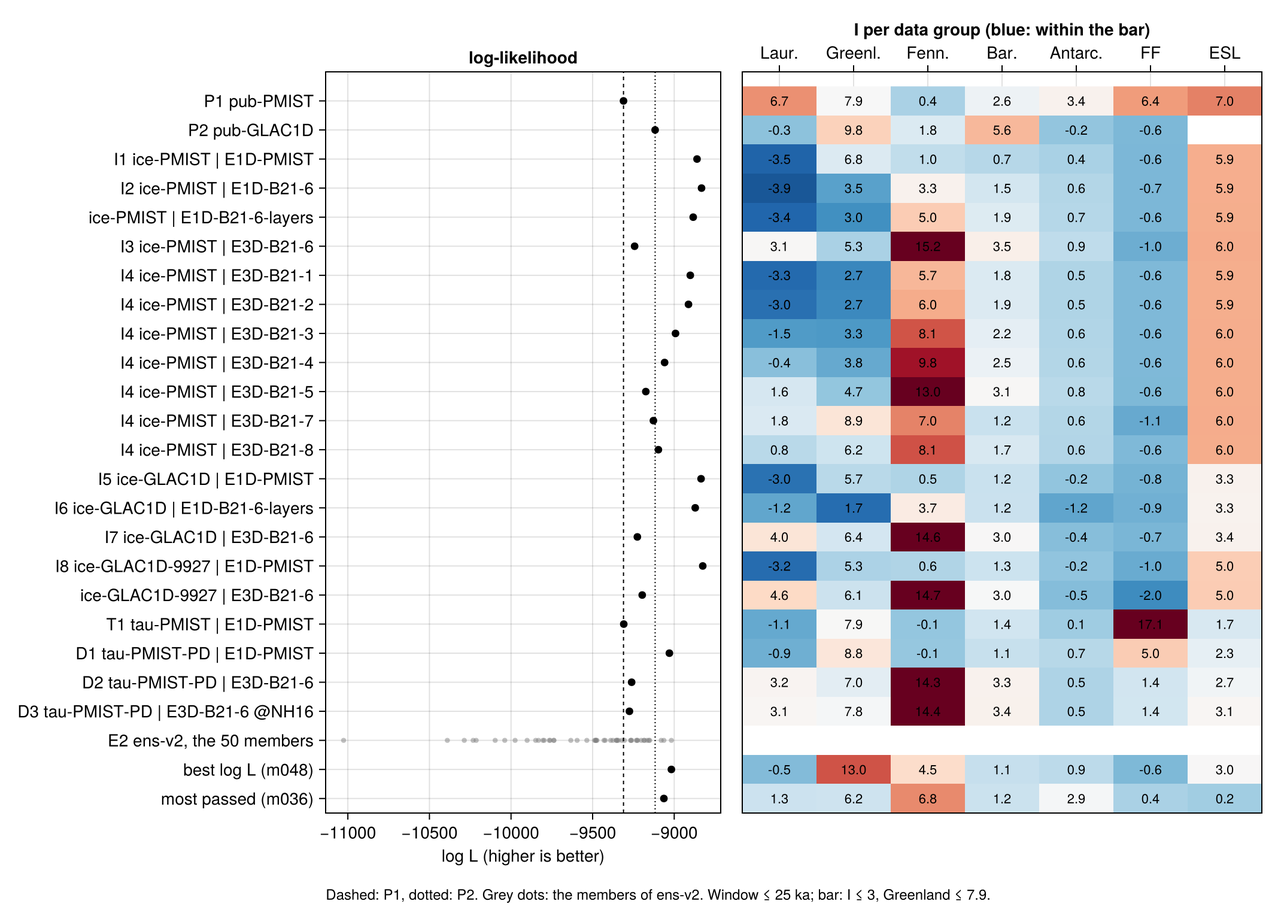
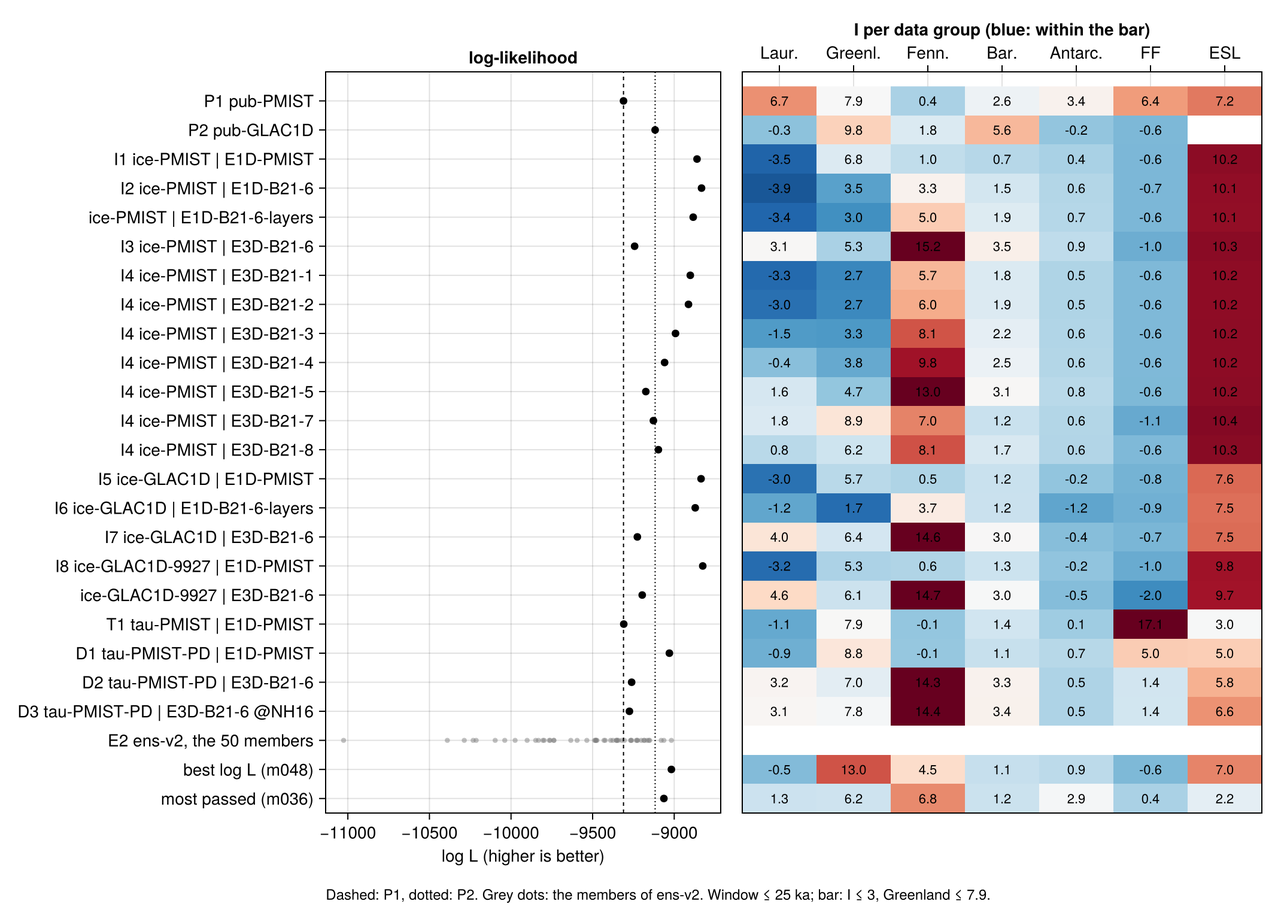
docs: ESL rescored (bsl, linear in time) in results.md, earth-search.md; data-scores.md describes the ESL comparison and the open bar under imposed ice

Changed region(s): [[0.9252, 0.1558, 0.9869, 0.9039]]

diff --git a/docs/science/results.md b/docs/science/results.md
@@ -5,13 +5,14 @@ page-layout: full
 ---
 
 Every scored simulation, on one scale: what each changes against its parent ([Methods](methods.md#the-ladder)) and how
-well it fits ([Data and scores](data-scores.md)). Status 2026-11-17.
+well it fits ([Data and scores](data-scores.md)). Status 2026-11-18 (ESL rescored: the barystatic sea level, linear in time;
+[Data and scores](data-scores.md#esl)).
 
 **Columns.** **log L**, the log-likelihood over the six RSL groups, higher is better (differences of a few tens are
 large); **passed**, the groups within the bar, of 7 (RSL and ESL) or of 9 with the GNSS rates; **RMSE** over all RSL
 points [m]; **RMS z** of the normalized residuals; **I** per group, ≤ 3 passes (Greenland ≤ 7.9; ESL ≤ 3 for our ice,
-≤ 7.04 in the Earth search): **Laur.** Laurentide, **Greenl.** Greenland, **Fenn.** Fennoscandia, **Bar.** Barents,
-**Antarc.** Antarctica, **FF** far field, **ESL** the eustatic sea level.
+≤ 7.22, PaleoMIST's own score, in the Earth search and the Coulomb tables): **Laur.** Laurentide, **Greenl.** Greenland, **Fenn.** Fennoscandia, **Bar.** Barents,
+**Antarc.** Antarctica, **FF** far field, **ESL** the barystatic sea level against the Spratt and Lisiecki (2016) stack.
 
 ![Every reference simulation of the ladder: log L (left) and I per data group against the bar (right; blue within it,
 red beyond it, the colour the distance from the cut).](figures/simulations/ladder.png)
@@ -23,7 +24,7 @@ published topography has no ice volume).
 
 | id | simulation | changes against | status | log L | passed | RMSE [m] | RMS z | I Laur. | I Greenl. | I Fenn. | I Bar. | I Antarc. | I FF | I ESL |
 |---|---|---|---|---|---|---|---|---|---|---|---|---|---|---|
-| **P1** | `pub-PMIST` | published | done | −9311 | 3/7 | 20.0 | 30.1 | 6.7 | 7.9 | 0.4 | 2.6 | 3.4 | 6.4 | 7.0 |
+| **P1** | `pub-PMIST` | published | done | −9311 | 3/7 | 20.0 | 30.1 | 6.7 | 7.9 | 0.4 | 2.6 | 3.4 | 6.4 | 7.2 |
 | **P2** | `pub-GLAC1D` | published | done | −9117 | 4/6 | 19.0 | 18.6 | −0.3 | 9.8 | 1.8 | 5.6 | −0.2 | −0.6 | – |
 
 ## Imposed ice on our solver
@@ -34,22 +35,22 @@ radial mean, then his lateral structure, then the strength of that structure.
 
 | id | simulation | changes against | status | log L | passed | RMSE [m] | RMS z | I Laur. | I Greenl. | I Fenn. | I Bar. | I Antarc. | I FF | I ESL |
 |---|---|---|---|---|---|---|---|---|---|---|---|---|---|---|
-| I1 | `ice-PMIST \| E1D-PMIST` | P1: the solver (SELEN → VILMA2, 931 → 910 kg m⁻³, 2.5 kyr steps → linear, r) | done | −8860 | 6/7 | 16.2 | 28.5 | −3.5 | 6.8 | 1.0 | 0.7 | 0.4 | −0.6 | 5.9 |
-| I2 | `ice-PMIST \| E1D-B21-6` | I1: the radial profile (PaleoMIST's → Bagge's mean) | done | −8833 | 5/7 | **14.5** | 21.2 | −3.9 | 3.5 | 3.3 | 1.5 | 0.6 | −0.7 | 5.9 |
-| | `ice-PMIST \| E1D-B21-6-layers` | the same radial mean as plain 1-D layer means | done | −8884 | 5/7 | **14.5** | 21.2 | −3.4 | 3.0 | 5.0 | 1.9 | 0.7 | −0.6 | 5.9 |
-| I3 | `ice-PMIST \| E3D-B21-6` | I2: the lateral structure | done | −9243 | 3/7 | 19.6 | 35.3 | 3.1 | 5.3 | 15.2 | 3.5 | 0.9 | −1.0 | 6.0 |
-| I4 | `ice-PMIST \| E3D-B21-1` | I3: Bagge's structure 1 (weakest lateral contrast) | done | −8902 | 5/7 | 15.0 | 20.1 | −3.3 | 2.7 | 5.7 | 1.8 | 0.5 | −0.6 | 5.9 |
-| | `ice-PMIST \| E3D-B21-2` | structure 2 | done | −8913 | 5/7 | 15.1 | 20.1 | −3.0 | 2.7 | 6.0 | 1.9 | 0.5 | −0.6 | 5.9 |
-| | `ice-PMIST \| E3D-B21-3` | structure 3, Bagge's reference | done | −8992 | 5/7 | 16.1 | 21.1 | −1.5 | 3.3 | 8.1 | 2.2 | 0.6 | −0.6 | 6.0 |
-| | `ice-PMIST \| E3D-B21-4` | structure 4 | done | −9059 | 5/7 | 17.0 | 22.6 | −0.4 | 3.8 | 9.8 | 2.5 | 0.6 | −0.6 | 6.0 |
-| | `ice-PMIST \| E3D-B21-5` | structure 5 | done | −9174 | 4/7 | 18.5 | 29.0 | 1.6 | 4.7 | 13.0 | 3.1 | 0.8 | −0.6 | 6.0 |
-| | `ice-PMIST \| E3D-B21-7` | structure 7 (sc06 profile) | done | −9128 | 4/7 | 18.9 | 33.5 | 1.8 | 8.9 | 7.0 | 1.2 | 0.6 | −1.1 | 6.0 |
-| | `ice-PMIST \| E3D-B21-8` | structure 8 (sc06b profile) | done | −9097 | 5/7 | 17.8 | 26.5 | 0.8 | 6.2 | 8.1 | 1.7 | 0.6 | −0.6 | 6.0 |
-| I5 | `ice-GLAC1D \| E1D-PMIST` | I1: the ice (PaleoMIST → GLAC-1D) | done | −8835 | 6/7 | 17.8 | 28.2 | −3.0 | 5.7 | 0.5 | 1.2 | −0.2 | −0.8 | 3.3 |
-| I6 | `ice-GLAC1D \| E1D-B21-6-layers` | I5: the radial profile (Bagge's mean as layers) | done | −8871 | 5/7 | 15.4 | **18.8** | −1.2 | 1.7 | 3.7 | 1.2 | −1.2 | −0.9 | 3.3 |
-| I7 | `ice-GLAC1D \| E3D-B21-6` | I6: the lateral structure | done | −9226 | 3/7 | 20.4 | 26.1 | 4.0 | 6.4 | 14.6 | 3.0 | −0.4 | −0.7 | 3.4 |
-| I8 | `ice-GLAC1D-9927 \| E1D-PMIST` | I5: North America nn9927 | done | **−8825** | 6/7 | 17.9 | 26.3 | −3.2 | 5.3 | 0.6 | 1.3 | −0.2 | −1.0 | 5.0 |
-| | `ice-GLAC1D-9927 \| E3D-B21-6` | I7: North America nn9927 | done | −9196 | 4/7 | 20.5 | 27.1 | 4.6 | 6.1 | 14.7 | 3.0 | −0.5 | −2.0 | 5.0 |
+| I1 | `ice-PMIST \| E1D-PMIST` | P1: the solver (SELEN → VILMA2, 931 → 910 kg m⁻³, 2.5 kyr steps → linear, r) | done | −8860 | 6/7 | 16.2 | 28.5 | −3.5 | 6.8 | 1.0 | 0.7 | 0.4 | −0.6 | 10.2 |
+| I2 | `ice-PMIST \| E1D-B21-6` | I1: the radial profile (PaleoMIST's → Bagge's mean) | done | −8833 | 5/7 | **14.5** | 21.2 | −3.9 | 3.5 | 3.3 | 1.5 | 0.6 | −0.7 | 10.1 |
+| | `ice-PMIST \| E1D-B21-6-layers` | the same radial mean as plain 1-D layer means | done | −8884 | 5/7 | **14.5** | 21.2 | −3.4 | 3.0 | 5.0 | 1.9 | 0.7 | −0.6 | 10.1 |
+| I3 | `ice-PMIST \| E3D-B21-6` | I2: the lateral structure | done | −9243 | 3/7 | 19.6 | 35.3 | 3.1 | 5.3 | 15.2 | 3.5 | 0.9 | −1.0 | 10.3 |
+| I4 | `ice-PMIST \| E3D-B21-1` | I3: Bagge's structure 1 (weakest lateral contrast) | done | −8902 | 5/7 | 15.0 | 20.1 | −3.3 | 2.7 | 5.7 | 1.8 | 0.5 | −0.6 | 10.2 |
+| | `ice-PMIST \| E3D-B21-2` | structure 2 | done | −8913 | 5/7 | 15.1 | 20.1 | −3.0 | 2.7 | 6.0 | 1.9 | 0.5 | −0.6 | 10.2 |
+| | `ice-PMIST \| E3D-B21-3` | structure 3, Bagge's reference | done | −8992 | 5/7 | 16.1 | 21.1 | −1.5 | 3.3 | 8.1 | 2.2 | 0.6 | −0.6 | 10.2 |
+| | `ice-PMIST \| E3D-B21-4` | structure 4 | done | −9059 | 5/7 | 17.0 | 22.6 | −0.4 | 3.8 | 9.8 | 2.5 | 0.6 | −0.6 | 10.2 |
+| | `ice-PMIST \| E3D-B21-5` | structure 5 | done | −9174 | 4/7 | 18.5 | 29.0 | 1.6 | 4.7 | 13.0 | 3.1 | 0.8 | −0.6 | 10.2 |
+| | `ice-PMIST \| E3D-B21-7` | structure 7 (sc06 profile) | done | −9128 | 4/7 | 18.9 | 33.5 | 1.8 | 8.9 | 7.0 | 1.2 | 0.6 | −1.1 | 10.4 |
+| | `ice-PMIST \| E3D-B21-8` | structure 8 (sc06b profile) | done | −9097 | 5/7 | 17.8 | 26.5 | 0.8 | 6.2 | 8.1 | 1.7 | 0.6 | −0.6 | 10.3 |
+| I5 | `ice-GLAC1D \| E1D-PMIST` | I1: the ice (PaleoMIST → GLAC-1D) | done | −8835 | 6/7 | 17.8 | 28.2 | −3.0 | 5.7 | 0.5 | 1.2 | −0.2 | −0.8 | 7.6 |
+| I6 | `ice-GLAC1D \| E1D-B21-6-layers` | I5: the radial profile (Bagge's mean as layers) | done | −8871 | 5/7 | 15.4 | **18.8** | −1.2 | 1.7 | 3.7 | 1.2 | −1.2 | −0.9 | 7.5 |
+| I7 | `ice-GLAC1D \| E3D-B21-6` | I6: the lateral structure | done | −9226 | 3/7 | 20.4 | 26.1 | 4.0 | 6.4 | 14.6 | 3.0 | −0.4 | −0.7 | 7.5 |
+| I8 | `ice-GLAC1D-9927 \| E1D-PMIST` | I5: North America nn9927 | done | **−8825** | 6/7 | 17.9 | 26.3 | −3.2 | 5.3 | 0.6 | 1.3 | −0.2 | −1.0 | 9.8 |
+| | `ice-GLAC1D-9927 \| E3D-B21-6` | I7: North America nn9927 | done | −9196 | 4/7 | 20.5 | 27.1 | 4.6 | 6.1 | 14.7 | 3.0 | −0.5 | −2.0 | 9.7 |
 | | `ice-PMIST \| E3D-PCA-E001` ... `E030` | I3: 30 Earths sampled from the expert basis | run, not scored | | | | | | | | | | | |
 
 ![PaleoMIST's ice on Bagge's structures 1-6, ordered by their lateral factor, and on the radial mean of structure 6 as a
@@ -57,8 +58,8 @@ radial mean, then his lateral structure, then the strength of that structure.
 
 - **Our solver beats both publications with their own ice:** I1 −8860 against P1 −9311, I5 −8835 against P2 −9117,
   both passing every RSL group. GLAC-1D's ice with nn9927 (I8) is the best of the ladder.
-- **ESL separates the ice histories.** PaleoMIST's ice fails ESL on every Earth (I 5.9-6.0, about 7 m short at 20 ka);
-  GLAC-1D's ice is close (3.3), nn9927 further off (5.0).
+- **Both ice histories fail ESL.** PaleoMIST's ice on every Earth (I 10.1-10.4, about 16 m short at 20 ka: 110 against
+  126 m), GLAC-1D's ice less (7.4-7.6), nn9927 further off (9.7-9.8).
 - **Bagge's radial profile is as good as Gowan's, his lateral structure is not.** The radial mean of structure 6 (I2)
   gives the lowest RMSE. With lateral structure Fennoscandia fails, the more the larger the lateral contrast (structure
   1: 5.7, structure 6: 15.2), under either ice (I3, I7). Laurentide and Greenland degrade the same way, more slowly.
@@ -70,10 +71,10 @@ computed every step on the deforming bed. D adds the present-day factors.
 
 | id | simulation | changes against | status | log L | passed | RMSE [m] | RMS z | I Laur. | I Greenl. | I Fenn. | I Bar. | I Antarc. | I FF | I ESL |
 |---|---|---|---|---|---|---|---|---|---|---|---|---|---|---|
-| T1 | `tau-PMIST \| E1D-PMIST` | I1: the ice model (ICESHEET 5 km offline → PlasticIceSheet 32 km online) | done | −9309 | 5/7 | 17.9 | 26.9 | −1.1 | 7.9 | −0.1 | 1.4 | 0.1 | 17.1 | 1.7 |
-| D1 | `tau-PMIST-PD \| E1D-PMIST` | T1: the present-day factors | done | −9030 | 5/7 | 17.8 | 27.7 | −0.9 | 8.8 | −0.1 | 1.1 | 0.7 | 5.0 | 2.3 |
-| D2 | `tau-PMIST-PD \| E3D-B21-6` | D1: the 3-D Earth (m000 of ens-v2) | done | −9261 | 4/7 | 20.3 | 34.7 | 3.2 | 7.0 | 14.3 | 3.3 | 0.5 | 1.4 | 2.7 |
-| D3 | `tau-PMIST-PD \| E3D-B21-6 @NH16` | D2: Northern Hemisphere 32 → 16 km | done | −9275 | 3/7 | 20.6 | 35.4 | 3.1 | 7.8 | 14.4 | 3.4 | 0.5 | 1.4 | 3.1 |
+| T1 | `tau-PMIST \| E1D-PMIST` | I1: the ice model (ICESHEET 5 km offline → PlasticIceSheet 32 km online) | done | −9309 | 5/7 | 17.9 | 26.9 | −1.1 | 7.9 | −0.1 | 1.4 | 0.1 | 17.1 | 3.0 |
+| D1 | `tau-PMIST-PD \| E1D-PMIST` | T1: the present-day factors | done | −9030 | 4/7 | 17.8 | 27.7 | −0.9 | 8.8 | −0.1 | 1.1 | 0.7 | 5.0 | 5.0 |
+| D2 | `tau-PMIST-PD \| E3D-B21-6` | D1: the 3-D Earth (m000 of ens-v2) | done | −9261 | 3/7 | 20.3 | 34.7 | 3.2 | 7.0 | 14.3 | 3.3 | 0.5 | 1.4 | 5.9 |
+| D3 | `tau-PMIST-PD \| E3D-B21-6 @NH16` | D2: Northern Hemisphere 32 → 16 km | done | −9275 | 3/7 | 20.6 | 35.4 | 3.1 | 7.8 | 14.4 | 3.4 | 0.5 | 1.4 | 6.6 |
 
 The present-day factors remove most of the far-field misfit (T1 17.1 → D1 5.0). On structure 6 (D2) Fennoscandia
 fails as it does under imposed ice (I3). 16 km in the north (D3) changes the scores little and costs 2 m of ESL; 32 km
@@ -85,32 +86,32 @@ PlasticIceSheet online on VILMA2 with the Coulomb yield law instead of PaleoMIST
 the relaxed bed, one c_f per ice sheet): four (H_N, λ_min) of the band that meets the 20 ka targets (H_N 30, 100, 300,
 1000 m with λ_min 0.2, 0.3, 0.5, 0.75; c_f of the calibration, Patagonia Eurasia's), each on Gowan's Earth and on the
 Earth search's E117, with the r of PaleoMIST's ice on that Earth. Scored on the Earth search's scale (9 groups; the bars
-Greenland 7.9, ESL 7.04; under the bar of our ice, ESL ≤ 3, every Coulomb run fails ESL).
+Greenland 7.9, ESL 7.22; under the bar of our ice, ESL ≤ 3, every Coulomb run but C5 at H_N 1000 fails ESL).
 
 | id | simulation | changes against | status | log L | passed | RMSE [m] | I L / G / F / B / A / FF | I GNSS F / HB | I ESL |
 |---|---|---|---|---|---|---|---|---|---|
-| C1 | `tau-CB-H030 \| E1D-PMIST` | D1: the Coulomb law, H_N 30 m | done | −9016 | 6/9 | 22.3 | −2.3 / 4.9 / 2.4 / 6.8 / 2.8 / −0.9 | 7.4 / 11.1 | 5.7 |
-| | `tau-CB-H100 \| E1D-PMIST` | H_N 100 m | done | −8977 | 6/9 | 21.5 | −2.5 / 4.5 / 1.8 / 6.0 / 2.8 / −1.4 | 7.0 / 10.9 | 6.2 |
-| | `tau-CB-H300 \| E1D-PMIST` | H_N 300 m | done | −8918 | 5/9 | 20.1 | −3.5 / 3.9 / 1.1 / 5.0 / 3.4 / −0.9 | 6.2 / 9.8 | 6.2 |
-| | `tau-CB-H1000 \| E1D-PMIST` | H_N 1000 m | done | −8885 | 5/9 | 18.5 | −2.5 / 3.7 / −0.2 / 4.5 / 4.0 / −0.8 | 6.6 / 11.8 | 5.4 |
-| C2 | `tau-CB-H030 \| E1D-ES1-E117` | C1: the Earth E117 | done | −8925 | 6/9 | 18.0 | −0.9 / 1.5 / 1.0 / 5.8 / 2.6 / −0.8 | 8.1 / 6.3 | 5.8 |
-| | `tau-CB-H100 \| E1D-ES1-E117` | | done | −8910 | 6/9 | 17.5 | −1.1 / 1.4 / 0.5 / 5.0 / 2.6 / −1.4 | 7.4 / 6.4 | 6.3 |
-| | `tau-CB-H300 \| E1D-ES1-E117` | | done | −8840 | 6/9 | 16.7 | −1.9 / 1.2 / −0.3 / 4.1 / 3.0 / −1.7 | 6.9 / 6.6 | 4.6 |
-| | `tau-CB-H1000 \| E1D-ES1-E117` | | done | −8829 | 5/9 | 15.8 | −1.1 / 0.9 / −1.0 / 3.9 / 4.0 / −1.1 | 7.0 / 8.6 | 5.6 |
-| C3 | `tau-CBS-H1000 \| E1D-ES1-E117` | C2 H1000: Eurasia split into Fennoscandia and BarentsKara | done | −8811 | 6/9 | 14.0 | −1.2 / 0.9 / 0.6 / 2.2 / 4.0 / −2.1 | 6.4 / 8.6 | 5.8 |
-| | `tau-CBS-H2000 \| E1D-ES1-E117` | H_N 2000 m, λ_min 1.0 | done | −8850 | 6/9 | 14.0 | −0.2 / 0.8 / 1.0 / 2.3 / 4.7 / −0.9 | 6.8 / 11.0 | 5.5 |
-| | `tau-CBS-H3000 \| E1D-ES1-E117` | H_N 3000 m, λ_min 1.0 | done | −8871 | 6/9 | 14.3 | 0.5 / 0.8 / 1.2 / 2.3 / 5.0 / −1.3 | 7.0 / 12.8 | 6.3 |
-| C4 | `tau-CBS-H1000-pPG \| E1D-ES1-E117` | C3 H1000: Greenland's margin from PaleoGrIS 1.0, 15-5 ka (a margin patch) | done | −8811 | 6/9 | 13.9 | −1.1 / 0.6 / 0.6 / 2.2 / 4.1 / −2.0 | 6.3 / 8.6 | 5.8 |
-| C5 | `tau-CBD-H1000 \| E1D-ES1-E117` | C3 H1000: the floor of N, δ = 0.05, c_f recalibrated (lgm-calib-v3) | done | −9194 | 5/9 | 14.2 | −0.9 / 1.2 / −0.1 / 2.5 / 4.7 / 16.6 | 5.8 / 9.7 | 1.1 |
-| | `tau-CBD-H300 \| E1D-ES1-E117` | C2 H300 (λ_min 0.5) on the maps v2, with the floor, lgm-calib-v3 | done | −8918 | 5/9 | 13.6 | −1.8 / 1.3 / −0.1 / 2.6 / 3.7 / 6.0 | 5.5 / 6.8 | 2.5 |
-| C5b | `tau-CBDC-H1000 \| E1D-ES1-E117` | C5 H1000 on the band's centre line: λ_min 0.34 | done | −8894 | 6/9 | 14.5 | 1.9 / 1.1 / −0.3 / 2.2 / 4.2 / −0.9 | 6.1 / 12.7 | 6.2 |
-| | `tau-CBDC-H300 \| E1D-ES1-E117` | C5 H300 on the centre line: λ_min 0.24 | done | −8872 | 6/9 | 14.3 | 0.4 / 1.4 / −0.3 / 2.6 / 3.6 / −0.9 | 5.7 / 8.9 | 6.2 |
-| C6 | `tau-CBDA-H1000 \| E1D-ES1-E117` | C5 H1000 with Antarctica of ant-calib: λ_min 0.34, zb −600 / 0 m, c_f 0.0194 (λ on BedMachine v4) | done | −8815 | 5/9 | 14.1 | −0.6 / 0.7 / −0.2 / 1.8 / 4.0 / −1.6 | 6.2 / 9.7 | 7.1 |
-| | `tau-CBDA-H300 \| E1D-ES1-E117` | C5 H300, Antarctica λ_min 0.24, zb −600 / 0 m, c_f 0.0406 | done | −8827 | 6/9 | 14.1 | −1.4 / 1.0 / −0.2 / 2.2 / 3.2 / −1.2 | 5.7 / 6.8 | 7.0 |
-| | `tau-CBDAR-H1000 \| E1D-ES1-E117` | CBDA H1000, Antarctica's c_f 0.01896 calibrated with λ on the runs' refcorr bed | done | −8819 | 5/9 | 14.2 | −0.6 / 0.7 / −0.2 / 1.8 / 4.0 / −1.6 | 6.3 / 9.7 | 7.5 |
-| | `tau-CBDAR-H300 \| E1D-ES1-E117` | CBDA H300 with λ_min 0.22, c_f 0.04154 (refcorr bed) | done | −8822 | 5/9 | 14.2 | −1.4 / 1.0 / −0.2 / 2.2 / 3.2 / −1.4 | 5.7 / 6.8 | 7.3 |
-| C7 | `tau-CBF-H1000 \| E1D-ES1-E117` | CBDAR H1000 with λ fixed on the file (`taub_lambda_bed = "file"`) in every instance, Antarctica's c_f 0.01943 recalibrated on it | done | −8810 | 5/9 | 14.3 | −0.5 / 0.6 / −0.1 / 1.7 / 4.0 / −2.0 | 6.3 / 8.2 | 8.1 |
-| | `tau-CBF-H300 \| E1D-ES1-E117` | CBDAR H300 with λ on the file, Antarctica's c_f 0.04212 | done | −8788 | 6/9 | 14.5 | −1.3 / 0.9 / 0.0 / 2.0 / 3.0 / −2.7 | 5.7 / 4.5 | 9.1 |
+| C1 | `tau-CB-H030 \| E1D-PMIST` | D1: the Coulomb law, H_N 30 m | done | −9016 | 5/9 | 22.3 | −2.3 / 4.9 / 2.4 / 6.8 / 2.8 / −0.9 | 7.4 / 11.1 | 10.3 |
+| | `tau-CB-H100 \| E1D-PMIST` | H_N 100 m | done | −8977 | 5/9 | 21.5 | −2.5 / 4.5 / 1.8 / 6.0 / 2.8 / −1.4 | 7.0 / 10.9 | 11.1 |
+| | `tau-CB-H300 \| E1D-PMIST` | H_N 300 m | done | −8918 | 4/9 | 20.1 | −3.5 / 3.9 / 1.1 / 5.0 / 3.4 / −0.9 | 6.2 / 9.8 | 11.0 |
+| | `tau-CB-H1000 \| E1D-PMIST` | H_N 1000 m | done | −8885 | 4/9 | 18.5 | −2.5 / 3.7 / −0.2 / 4.5 / 4.0 / −0.8 | 6.6 / 11.8 | 9.8 |
+| C2 | `tau-CB-H030 \| E1D-ES1-E117` | C1: the Earth E117 | done | −8925 | 5/9 | 18.0 | −0.9 / 1.5 / 1.0 / 5.8 / 2.6 / −0.8 | 8.1 / 6.3 | 10.5 |
+| | `tau-CB-H100 \| E1D-ES1-E117` | | done | −8910 | 5/9 | 17.5 | −1.1 / 1.4 / 0.5 / 5.0 / 2.6 / −1.4 | 7.4 / 6.4 | 11.2 |
+| | `tau-CB-H300 \| E1D-ES1-E117` | | done | −8840 | 5/9 | 16.7 | −1.9 / 1.2 / −0.3 / 4.1 / 3.0 / −1.7 | 6.9 / 6.6 | 9.1 |
+| | `tau-CB-H1000 \| E1D-ES1-E117` | | done | −8829 | 4/9 | 15.8 | −1.1 / 0.9 / −1.0 / 3.9 / 4.0 / −1.1 | 7.0 / 8.6 | 10.0 |
+| C3 | `tau-CBS-H1000 \| E1D-ES1-E117` | C2 H1000: Eurasia split into Fennoscandia and BarentsKara | done | −8811 | 5/9 | 14.0 | −1.2 / 0.9 / 0.6 / 2.2 / 4.0 / −2.1 | 6.4 / 8.6 | 10.5 |
+| | `tau-CBS-H2000 \| E1D-ES1-E117` | H_N 2000 m, λ_min 1.0 | done | −8850 | 5/9 | 14.0 | −0.2 / 0.8 / 1.0 / 2.3 / 4.7 / −0.9 | 6.8 / 11.0 | 9.9 |
+| | `tau-CBS-H3000 \| E1D-ES1-E117` | H_N 3000 m, λ_min 1.0 | done | −8871 | 5/9 | 14.3 | 0.5 / 0.8 / 1.2 / 2.3 / 5.0 / −1.3 | 7.0 / 12.8 | 10.9 |
+| C4 | `tau-CBS-H1000-pPG \| E1D-ES1-E117` | C3 H1000: Greenland's margin from PaleoGrIS 1.0, 15-5 ka (a margin patch) | done | −8811 | 5/9 | 13.9 | −1.1 / 0.6 / 0.6 / 2.2 / 4.1 / −2.0 | 6.3 / 8.6 | 10.5 |
+| C5 | `tau-CBD-H1000 \| E1D-ES1-E117` | C3 H1000: the floor of N, δ = 0.05, c_f recalibrated (lgm-calib-v3) | done | −9194 | 5/9 | 14.2 | −0.9 / 1.2 / −0.1 / 2.5 / 4.7 / 16.6 | 5.8 / 9.7 | 2.1 |
+| | `tau-CBD-H300 \| E1D-ES1-E117` | C2 H300 (λ_min 0.5) on the maps v2, with the floor, lgm-calib-v3 | done | −8918 | 5/9 | 13.6 | −1.8 / 1.3 / −0.1 / 2.6 / 3.7 / 6.0 | 5.5 / 6.8 | 5.2 |
+| C5b | `tau-CBDC-H1000 \| E1D-ES1-E117` | C5 H1000 on the band's centre line: λ_min 0.34 | done | −8894 | 5/9 | 14.5 | 1.9 / 1.1 / −0.3 / 2.2 / 4.2 / −0.9 | 6.1 / 12.7 | 10.7 |
+| | `tau-CBDC-H300 \| E1D-ES1-E117` | C5 H300 on the centre line: λ_min 0.24 | done | −8872 | 5/9 | 14.3 | 0.4 / 1.4 / −0.3 / 2.6 / 3.6 / −0.9 | 5.7 / 8.9 | 10.9 |
+| C6 | `tau-CBDA-H1000 \| E1D-ES1-E117` | C5 H1000 with Antarctica of ant-calib: λ_min 0.34, zb −600 / 0 m, c_f 0.0194 (λ on BedMachine v4) | done | −8815 | 5/9 | 14.1 | −0.6 / 0.7 / −0.2 / 1.8 / 4.0 / −1.6 | 6.2 / 9.7 | 12.3 |
+| | `tau-CBDA-H300 \| E1D-ES1-E117` | C5 H300, Antarctica λ_min 0.24, zb −600 / 0 m, c_f 0.0406 | done | −8827 | 5/9 | 14.1 | −1.4 / 1.0 / −0.2 / 2.2 / 3.2 / −1.2 | 5.7 / 6.8 | 12.2 |
+| | `tau-CBDAR-H1000 \| E1D-ES1-E117` | CBDA H1000, Antarctica's c_f 0.01896 calibrated with λ on the runs' refcorr bed | done | −8819 | 5/9 | 14.2 | −0.6 / 0.7 / −0.2 / 1.8 / 4.0 / −1.6 | 6.3 / 9.7 | 12.8 |
+| | `tau-CBDAR-H300 \| E1D-ES1-E117` | CBDA H300 with λ_min 0.22, c_f 0.04154 (refcorr bed) | done | −8822 | 5/9 | 14.2 | −1.4 / 1.0 / −0.2 / 2.2 / 3.2 / −1.4 | 5.7 / 6.8 | 12.7 |
+| C7 | `tau-CBF-H1000 \| E1D-ES1-E117` | CBDAR H1000 with λ fixed on the file (`taub_lambda_bed = "file"`) in every instance, Antarctica's c_f 0.01943 recalibrated on it | done | −8810 | 5/9 | 14.3 | −0.5 / 0.6 / −0.1 / 1.7 / 4.0 / −2.0 | 6.3 / 8.2 | 13.7 |
+| | `tau-CBF-H300 \| E1D-ES1-E117` | CBDAR H300 with λ on the file, Antarctica's c_f 0.04212 | done | −8788 | 6/9 | 14.5 | −1.3 / 0.9 / 0.0 / 2.0 / 3.0 / −2.7 | 5.7 / 4.5 | 15.2 |
 
 The far field passes on every run (D1: 5.0) and log L rises with H_N on both Earths; Barents fails on all (too much
 Eurasian ice at 20 ka, 20-21 m against PaleoMIST's 18), Antarctica worsens with H_N. A larger H_N lowers τ_b where the
@@ -162,8 +163,8 @@ excess rises from 12.7 to 35.2 m (H_N 1000) and from 11.8 to 26.9 m (H_N 300): b
 (excess ≤ 20 m), which now spans λ_min 0.1-0.5. Online, Antarctica carries 31.4 and 23.9 m above present at 20 ka
 (C3: 14.6, C2 H300: 12.8; PaleoMIST 11.2); the northern sheets are as before (NAIS 76.3, Fennoscandia 11.9-12.2,
 BarentsKara 6.9-7.2 m). The far field, passed by every earlier Coulomb run, fails (I 16.6 at H_N 1000, 6.0 at 300: too
-much Antarctic ice), Antarctica still fails (4.7, 3.7); ESL drops to 1.1 and 2.5, the first Coulomb runs under the bar of
-our ice (3). log L drops against C3 (−9194, −8918), 5/9 groups. The floor itself works;
+much Antarctic ice), Antarctica still fails (4.7, 3.7); ESL drops to 2.1 and 5.2, H_N 1000 the only Coulomb run under the
+bar of our ice (3). log L drops against C3 (−9194, −8918), 5/9 groups. The floor itself works;
 these two points need a smaller λ_min (or a recalibrated Antarctic c_f) to stay in the band.
 
 C5b reruns both H_N on the centre line of the new band, by the rule of C1 (the Antarctic 20 ka excess near 12.5 m),
@@ -171,9 +172,9 @@ with λ_min refined in steps of 0.02 (lgm-calib-v3/fine): λ_min 0.34 at H_N 100
 Fennoscandia 0.0121, BarentsKara 0.0360, Greenland 0.0222, Antarctica 0.0210) and 0.24 at H_N 300 (12.4 m; 0.0247,
 0.0246, 0.0821, 0.0445, 0.0460); Patagonia takes Fennoscandia's c_f. Online, Antarctica carries 11.9 and 11.0 m above
 present at 20 ka (C3: 14.6) and no alternating jumps (max |ΔM| 3.0 and 2.9 × 10⁵ Gt; North 6 and 3 pairs, at the
-deglacial retreat). The far field passes again (−0.9) and ESL is back at 6.2, but the smaller λ_min grounds more ice in
+deglacial retreat). The far field passes again (−0.9) and ESL is back at 10.7-10.9, but the smaller λ_min grounds more ice in
 the North: NAIS 81.6 and 80.7 m at 20 ka (C3: 77.3, domes 4.9 and 4.5 km), Hudson Bay's GNSS worsens (12.7 at H_N 1000,
-8.9 at 300) and so does Laurentide at H_N 1000 (1.9). Both pass 6/9, as C3, with a lower log L (−8894, −8872 against
+8.9 at 300) and so does Laurentide at H_N 1000 (1.9). Both pass 5/9, as C3, with a lower log L (−8894, −8872 against
 −8811): the floor removes the jumps at a cost in log L of 60-80 on the centre line.
 
 Up to C6 the runs took λ on their own reference topography relaxed by local isostasy (`taub_lambda_bed = "relaxed"`),
@@ -190,7 +191,7 @@ Greenland 0.022060; H_N 300, λ_min 0.5: 0.019699, 0.021662, 0.047985, 0.044263)
 C6 (coulomb-taub/ant-calib, ant-runs) recalibrates only Antarctica on C5, by the least present-day χ²/n with the 20 ka
 excess 12.5 ± 1 m (and at most a quarter of the Ross, Weddell, Amundsen expansion on the floor of N): λ_min 0.34 at H_N
 1000 and 0.22-0.24 at 300, with zb −600 / 0 m. CBDA took λ on BedMachine, CBDAR on the runs' refcorr bed; both lift
-log L to −8815 to −8827 (Antarctica 11.6-13.3 m at 20 ka, far field −1.2 to −1.6, ESL 7.0-7.5).
+log L to −8815 to −8827 (Antarctica 11.6-13.3 m at 20 ka, far field −1.2 to −1.6, ESL 12.2-12.8).
 
 C7 is CBDAR with λ on the file in every instance (`experiments/coulomb-band.sh` set `file`) and Antarctica's c_f
 recalibrated on it by C6's rule (lgm-calib-v4/ant: 0.01943 at H_N 1000, 0.04212 at 300, excess 13.5 and 12.6 m; the north
@@ -198,7 +199,7 @@ and Patagonia keep their c_f). The run's μ is c_f λ of the file (within the 10
 beds are now as soft as in the calibration: NAIS carries 74.6 and 73.5 m at 20 ka (CBDAR 75.6, 76.0; target 72.5; dome
 4.3 and 4.0 km), Antarctica 12.7 and 11.2 m. Hudson Bay's GNSS improves most (I 9.7 → 8.2 at H_N 1000, 6.8 → 4.5 at 300),
 Greenland, Barents and the far field gain 0.1-1.3, Laurentide and Fennoscandia lose 0.1-0.2, Antarctica holds (4.0) or
-gains (3.2 → 3.0), and ESL is worse (8.1, 9.1 against 7.5, 7.3: less northern ice at the LGM). log L −8810 and −8788: H_N 300 is the best Coulomb run so far (6/9; better than PaleoMIST's ice on the same
+gains (3.2 → 3.0), and ESL is worse (13.7, 15.2 against 12.8, 12.7: less northern ice at the LGM). log L −8810 and −8788: H_N 300 is the best Coulomb run so far (6/9; better than PaleoMIST's ice on the same
 Earth, −8801), H_N 1000 passes 5/9. No alternating jumps in Antarctica (max |ΔM| 3.6 and 2.0 × 10⁵ Gt); the North keeps
 5 and 3 pairs at the deglacial retreat (10.3 ka), as CBDAR.
 
@@ -211,8 +212,8 @@ likelihood ([The ice: τ_b ensembles](ice-ensembles.md)).
 |---|---|---|---|---|---|---|---|---|---|---|---|---|---|---|
 | E1 | `tau-ENS1 \| E3D-B21-6` | D2: sampled τ_b (ens-v1, 25 members) | done, not rescored | | | | | | | | | | | |
 | E2 | `tau-ENS2 \| E3D-B21-6-ENS2` | E1: the Earth sampled too (ens-v2, 50 members) | done | | | | | | | | | | | |
-| | best log L: `tau-ENS2-E048 \| E3D-B21-6-E048` | | | −9017 | 4/7 | 19.7 | 32.2 | −0.5 | 13.0 | 4.5 | 1.1 | 0.9 | −0.6 | 3.0 |
-| | most groups passed: `tau-ENS2-E036 \| E3D-B21-6-E036` | | | −9063 | 6/7 | 18.5 | 27.3 | 1.3 | 6.2 | 6.8 | 1.2 | 2.9 | 0.4 | 0.2 |
+| | best log L: `tau-ENS2-E048 \| E3D-B21-6-E048` | | | −9017 | 4/7 | 19.7 | 32.2 | −0.5 | 13.0 | 4.5 | 1.1 | 0.9 | −0.6 | 7.0 |
+| | most groups passed: `tau-ENS2-E036 \| E3D-B21-6-E036` | | | −9063 | 6/7 | 18.5 | 27.3 | 1.3 | 6.2 | 6.8 | 1.2 | 2.9 | 0.4 | 2.2 |
 | | median of the 50 | | | −9474 | | | | | | | | | | |
 | E3 | the final ensemble: our τ_b on the Earths of the Earth search | E2: the Earth chosen without our ice, a wide τ_b prior | proposed | | | | | | | | | | | |
 
@@ -222,28 +223,30 @@ it on structure 6, best m013, I 0.2).
 ## The Earth search
 
 Imposed ice on sampled Earths ([The Earth search](earth-search.md)), scored on 9 groups: the six RSL groups, GNSS
-Fennoscandia and Hudson Bay, and ESL (the bar 7.04). Earth: lithosphere [km], log10 η UM / TZ / LM1 / LM2 [Pa s].
+Fennoscandia and Hudson Bay, and ESL (the bar 7.22; [ESL after the rescore](earth-search.md#esl-after-the-rescore)). Earth: lithosphere [km], log10 η UM / TZ / LM1 / LM2 [Pa s].
 
 | id | simulation | Earth | log L | passed | I L / G / F / B / A / FF | I GNSS F / HB | I ESL |
 |---|---|---|---|---|---|---|---|
-| S0 | `ice-PMIST \| E1D-ES1-PMIST` | Gowan's, in the search's parameters (the check: I1 again) | −8860 | 7/9 | −3.5 / 6.8 / 1.0 / 0.7 / 0.4 / −0.6 | 7.4 / 3.5 | 5.9 |
-| | `ice-GLAC1D \| E1D-PMIST` | I5 on this scale | −8835 | 8/9 | −3.0 / 5.7 / 0.5 / 1.2 / −0.2 / −0.8 | 7.1 / 2.7 | 3.3 |
-| S1 | `ice-PMIST \| E1D-ES1-E<nnn>` | wave A, 200 1-D Earths: 20.2 % of the space not ruled out | | | | | |
-| | best log L: `ice-PMIST \| E1D-ES1-E117` | 111, 20.13 / 21.75 / 23.15 / 21.69 | −8801 | 7/9 | −3.2 / 2.0 / 1.6 / 1.4 / 0.2 / −0.7 | 5.7 / 6.4 | 5.9 |
-| | most groups: `ice-PMIST \| E1D-ES1-E017` | 87, 20.56 / 20.61 / 21.68 / 21.02 | −8906 | 8/9 | −0.7 / 2.5 / 0.6 / 1.0 / 0.8 / −1.6 | 4.9 / 2.1 | 6.0 |
-| S2 | `ice-GLAC1D \| E1D-ES1-E<nnn>` | wave A: 13.5 % not ruled out; under either ice 28.8 %, both 4.9 % | | | | | |
-| | best log L: `ice-GLAC1D \| E1D-ES1-E165` | 67, 20.77 / 20.08 / 22.54 / 21.88 | −8709 | 7/9 | −3.5 / 2.6 / 0.8 / 3.3 / −1.4 / −4.4 | 3.6 / 2.9 | 3.3 |
-| | all groups: `ice-GLAC1D \| E1D-ES1-E033` (14 Earths pass all 9) | 106, 20.84 / 21.43 / 21.08 / 22.08 | −8746 | 9/9 | −2.4 / 1.7 / 2.2 / 0.7 / −1.1 / −4.4 | 0.5 / 1.1 | 3.4 |
+| S0 | `ice-PMIST \| E1D-ES1-PMIST` | Gowan's, in the search's parameters (the check: I1 again) | −8860 | 6/9 | −3.5 / 6.8 / 1.0 / 0.7 / 0.4 / −0.6 | 7.4 / 3.5 | 10.2 |
+| | `ice-GLAC1D \| E1D-PMIST` | I5 on this scale | −8835 | 7/9 | −3.0 / 5.7 / 0.5 / 1.2 / −0.2 / −0.8 | 7.1 / 2.7 | 7.6 |
+| S1 | `ice-PMIST \| E1D-ES1-E<nnn>` | wave A, 200 1-D Earths: 20.2 % of the space not ruled out without ESL, 0 % with it | | | | | |
+| | best log L: `ice-PMIST \| E1D-ES1-E117` | 111, 20.13 / 21.75 / 23.15 / 21.69 | −8801 | 6/9 | −3.2 / 2.0 / 1.6 / 1.4 / 0.2 / −0.7 | 5.7 / 6.4 | 10.2 |
+| | most groups: `ice-PMIST \| E1D-ES1-E017` | 87, 20.56 / 20.61 / 21.68 / 21.02 | −8906 | 7/9 | −0.7 / 2.5 / 0.6 / 1.0 / 0.8 / −1.6 | 4.9 / 2.1 | 10.7 |
+| S2 | `ice-GLAC1D \| E1D-ES1-E<nnn>` | wave A: 13.5 % not ruled out; under either ice 28.8 %, both 4.9 % (without ESL; 0 % with it) | | | | | |
+| | best log L: `ice-GLAC1D \| E1D-ES1-E165` | 67, 20.77 / 20.08 / 22.54 / 21.88 | −8709 | 6/9 | −3.5 / 2.6 / 0.8 / 3.3 / −1.4 / −4.4 | 3.6 / 2.9 | 7.9 |
+| | most groups: `ice-GLAC1D \| E1D-ES1-E033` (14 Earths pass all but ESL) | 106, 20.84 / 21.43 / 21.08 / 22.08 | −8746 | 8/9 | −2.4 / 1.7 / 2.2 / 0.7 / −1.1 / −4.4 | 0.5 / 1.1 | 8.0 |
 | S3 | `ice-<ICE> \| E1D-ES2-E<nnn>` | wave B, the radial profiles of the 50 3-D Earths, under each ice | done, scored (in the emulator of S4) | | | | | |
-| S4 | `ice-PMIST \| E3D-ES2-E<nnn>` | wave B, 50 3-D Earths: 42 % of the 13-D space not ruled out (96 of 100 runs) | | | | | |
-| | best: `ice-PMIST \| E3D-ES2-E014` | 55, 19.68 / 22.47 / 21.13 / 21.09; α 0.74 (Lloyd-like) | −8836 | 8/9 | −2.5 / 2.6 / 1.4 / 0.8 / 2.6 / −1.3 | 5.6 / 1.0 | 6.0 |
-| | `ice-PMIST \| E3D-ES2-E043` | 157, 20.98 / 20.60 / 22.09 / 21.02; α 0.59 | −8966 | 8/9 | 2.9 / 1.4 / 4.9 / 1.3 / 0.6 / −1.7 | 2.3 / 0.9 | 6.0 |
-| S5 | `ice-GLAC1D \| E3D-ES2-E<nnn>` | wave B: 45 % not ruled out; under both 36 % | | | | | |
-| | best: `ice-GLAC1D \| E3D-ES2-E014` | as above | **−8717** | 8/9 | −3.0 / 3.2 / 0.7 / 2.0 / −0.3 / −3.2 | 7.8 / 1.2 | 3.4 |
-| | `ice-GLAC1D \| E3D-ES2-E036` | 124, 21.39 / 20.64 / 21.24 / 21.75; α 0.08 (nearly 1-D) | −8893 | 8/9 | 2.1 / 6.7 / 3.8 / 0.7 / −0.8 / −4.5 | 0.5 / 2.1 | 3.4 |
+| S4 | `ice-PMIST \| E3D-ES2-E<nnn>` | wave B, 50 3-D Earths: 42 % of the 13-D space not ruled out without ESL (96 of 100 runs), 0 % with it | | | | | |
+| | best: `ice-PMIST \| E3D-ES2-E014` | 55, 19.68 / 22.47 / 21.13 / 21.09; α 0.74 (Lloyd-like) | −8836 | 7/9 | −2.5 / 2.6 / 1.4 / 0.8 / 2.6 / −1.3 | 5.6 / 1.0 | 10.7 |
+| | `ice-PMIST \| E3D-ES2-E043` | 157, 20.98 / 20.60 / 22.09 / 21.02; α 0.59 | −8966 | 7/9 | 2.9 / 1.4 / 4.9 / 1.3 / 0.6 / −1.7 | 2.3 / 0.9 | 10.5 |
+| S5 | `ice-GLAC1D \| E3D-ES2-E<nnn>` | wave B: 45 % not ruled out; under both 36 % (without ESL; with it 0.7 % and 0 %) | | | | | |
+| | best: `ice-GLAC1D \| E3D-ES2-E014` | as above | **−8717** | 7/9 | −3.0 / 3.2 / 0.7 / 2.0 / −0.3 / −3.2 | 7.8 / 1.2 | 8.1 |
+| | `ice-GLAC1D \| E3D-ES2-E036` | 124, 21.39 / 20.64 / 21.24 / 21.75; α 0.08 (nearly 1-D) | −8893 | 7/9 | 2.1 / 6.7 / 3.8 / 0.7 / −0.8 / −4.5 | 0.5 / 2.1 | 8.1 |
 | S6 | `ice-<ICE> \| E3D-ES2-E1<nn>` | wave B2, 30 3-D Earths in two widened boxes | running | | | | | |
 
-No 3-D Earth passes all 9 groups. E014 is the only one that beats Gowan's Earth under both ice histories.
+No 3-D Earth passes all 9 groups. E014 is the only one that beats Gowan's Earth under both ice histories. No run of the
+search passes ESL at the bar 7.22: PaleoMIST's ice scores 10.0-11.0 on every Earth, GLAC-1D's 7.3-8.4 ([Data and
+scores](data-scores.md#the-bar)).
 
 ## Misfit common to every simulation
 
@@ -280,6 +283,12 @@ The runs are on AWI's albedo:
 | E1 | `/albedo/work/projects/p_forclima/kryos-work/levante/ens-v1` (copied from Levante) |
 | S0-S5 | `/albedo/work/user/alrobi001/kryos-search` (`kryos_data/refcorr/`, `score/ens/`); the emulators in `/albedo/work/projects/p_forclima/kryos-work/earth-search/emulateB` |
 | S6 | `/albedo/work/projects/p_forclima/kryos-work/earth-search/waveB2` |
+
+The ESL numbers since 2026-11-18 (all other scores unchanged) are from the rescore of every score folder above with the
+same config and error model: `/albedo/work/projects/p_forclima/kryos-work/rescore-esl/<folder>/score/iter_01/scores.csv`
+(folders `refs-test` for P, I, T, D, E; `earth-search` for S0-S5; `coupled`, `split`, `margin-patch`, `delta`,
+`ant-runs`, `lambda-file` for C1-C7; `nais-diag`, `delta-north`, `esl-diag`, `paleogris`, `rtest` for the tests), the
+emulators in `.../rescore-esl/earth-search/emulate*`, the comparison old / new in `.../rescore-esl/summary.md`.
 
 The runs under `/albedo/work/user/alrobi001` move to the project's shared folder
 (`/albedo/work/projects/p_forclima/kryos-work`) once their last jobs end.

diff --git a/docs/science/earth-search.md b/docs/science/earth-search.md
@@ -4,7 +4,8 @@ title: "The Earth search"
 
 Which Earth do the sea-level data want, independently of our ice? Imposed ice on many sampled Earths, scored as every
 other simulation ([Data and scores](data-scores.md)), with an emulator to cover the space that was not run. Status
-2026-11-16: wave A done, wave B emulated on 96 of its 100 runs, wave B2 running.
+2026-11-16: wave A done, wave B emulated on 96 of its 100 runs, wave B2 running; ESL rescored 2026-11-18
+([below](#esl-after-the-rescore)).
 
 ## Why
 
@@ -49,8 +50,8 @@ model.
 
 ![Radial viscosity profiles: the prior range per layer (shaded), Gowan's 1-D Earth, the area means of Bagge's 8
 structures, and sampled Earths. Wave A: E165 and E117, the best 1-D Earths on RSL under GLAC-1D's and PaleoMIST's ice;
-E050 and E120, which pass at least 8 of 9 groups under both. Wave B: E014, its radial profile P and the area mean of its
-3-D field (the lateral pattern stiffens it below the lithosphere). The elastic lithosphere is drawn at the right edge.
+E050 and E120, which pass at least 7 of 9 groups under both (8 before the ESL rescore of 2026-11-18). Wave B: E014,
+its radial profile P and the area mean of its 3-D field (the lateral pattern stiffens it below the lithosphere). The elastic lithosphere is drawn at the right edge.
 `tools/levante/plastic_earth_profiles.jl`.](figures/earth-search/profiles.png)
 
 ## Waves, emulator and cut
@@ -99,7 +100,8 @@ pair.](figures/earth-search/wave-a-nroi-either.png)
 - **The upper mantle orders the scores, the lower mantle hardly matters.** The lithosphere (thinner than about 170 km)
   and the upper mantle are constrained; the transition zone and the lower mantle are not, in 1-D.
 - **Fennoscandia rules out half of the space** (it wants a thin lithosphere and a soft UM and TZ), Greenland a quarter
-  (a stiffer UM), the GNSS rates 23-62 %. The far field, Antarctica and ESL rule out nothing.
+  (a stiffer UM), the GNSS rates 23-62 %. The far field and Antarctica rule out nothing; ESL ruled out nothing at its
+  old comparator and rules out all of it since the rescore ([below](#esl-after-the-rescore)).
 - **The two ice histories want different Earths.** PaleoMIST's ice a soft UM (10^20.1^-10^20.4^) with a stiffer TZ,
   GLAC-1D's a UM of 10^20.6^-10^21^. Requiring both would rule Earths out for the ice's sake, so wave B samples from
   "either".
@@ -139,14 +141,14 @@ Earth under PaleoMIST −8860, under GLAC-1D −8835):
 
 | ice | Earth | log L (1-D) | passed | I |
 |---|---|---|---|---|
-| GLAC-1D | E014 | **−8717** (−9140) | 8/9 | −3.0 / 3.2 / 0.7 / 2.0 / −0.3 / −3.2 \| 7.8 / 1.2 \| 3.4 |
-| GLAC-1D | E036 | −8893 (−8825) | 8/9 | 2.1 / 6.7 / 3.8 / 0.7 / −0.8 / −4.5 \| 0.5 / 2.1 \| 3.4 |
-| GLAC-1D | E038 | −8842 (−8797) | 7/9 | −0.3 / 3.1 / 5.5 / 1.0 / 0.8 / −4.5 \| 7.4 / 2.8 \| 3.4 |
-| GLAC-1D | E043 | −8952 (−8763) | 7/9 | 4.9 / 2.6 / 4.2 / 0.9 / 0.1 / −1.8 \| 2.4 / 1.8 \| 3.4 |
-| PaleoMIST | E014 | **−8836** (−8884) | 8/9 | −2.5 / 2.6 / 1.4 / 0.8 / 2.6 / −1.3 \| 5.6 / 1.0 \| 6.0 |
-| PaleoMIST | E043 | −8966 (−8935) | 8/9 | 2.9 / 1.4 / 4.9 / 1.3 / 0.6 / −1.7 \| 2.3 / 0.9 \| 6.0 |
-| PaleoMIST | E041 | −8857 (−8819) | 7/9 | −3.5 / 3.3 / 2.0 / 2.2 / 0.4 / −1.1 \| 4.9 / 4.5 \| 5.9 |
-| PaleoMIST | E015 | −8900 (−8967) | 7/9 | 0.2 / 5.4 / 1.9 / 1.8 / 1.6 / −1.7 \| 7.5 / 7.4 \| 5.9 |
+| GLAC-1D | E014 | **−8717** (−9140) | 7/9 | −3.0 / 3.2 / 0.7 / 2.0 / −0.3 / −3.2 \| 7.8 / 1.2 \| 8.1 |
+| GLAC-1D | E036 | −8893 (−8825) | 7/9 | 2.1 / 6.7 / 3.8 / 0.7 / −0.8 / −4.5 \| 0.5 / 2.1 \| 8.1 |
+| GLAC-1D | E038 | −8842 (−8797) | 6/9 | −0.3 / 3.1 / 5.5 / 1.0 / 0.8 / −4.5 \| 7.4 / 2.8 \| 8.2 |
+| GLAC-1D | E043 | −8952 (−8763) | 6/9 | 4.9 / 2.6 / 4.2 / 0.9 / 0.1 / −1.8 \| 2.4 / 1.8 \| 8.0 |
+| PaleoMIST | E014 | **−8836** (−8884) | 7/9 | −2.5 / 2.6 / 1.4 / 0.8 / 2.6 / −1.3 \| 5.6 / 1.0 \| 10.7 |
+| PaleoMIST | E043 | −8966 (−8935) | 7/9 | 2.9 / 1.4 / 4.9 / 1.3 / 0.6 / −1.7 \| 2.3 / 0.9 \| 10.5 |
+| PaleoMIST | E041 | −8857 (−8819) | 6/9 | −3.5 / 3.3 / 2.0 / 2.2 / 0.4 / −1.1 \| 4.9 / 4.5 \| 10.3 |
+| PaleoMIST | E015 | −8900 (−8967) | 6/9 | 0.2 / 5.4 / 1.9 / 1.8 / 1.6 / −1.7 \| 7.5 / 7.4 \| 10.6 |
 
 | Earth | lithosphere, UM / TZ / LM1 / LM2 | α, c₂, c₃ | shifts F / B / L / G / W | distance from the experts (radial, lateral) |
 |---|---|---|---|---|
@@ -155,8 +157,8 @@ Earth under PaleoMIST −8860, under GLAC-1D −8835):
 | E043 | 157 km, 20.98 / 20.60 / 22.09 / 21.02 | 0.59, −0.17, +2.27 | 0.0 / −0.9 / +0.7 / −0.4 / −0.5 | 0.67 (Lloyd), 0.47 (Bagge 2) |
 | E041 | 110 km, 20.51 / 21.09 / 23.36 / 21.11 | 0.34, +0.20, +2.00 | −0.2 / +0.5 / −0.7 / +0.7 / +0.2 | 1.13 (Lloyd), 0.71 (Bagge 2) |
 
-**E014.** The one 3-D Earth that passes 8 of 9 groups under both ice histories and beats Gowan's Earth under both. Its
-lateral structure gains 422 in log L over its own radial profile under GLAC-1D's ice and turns both GNSS groups from
+**E014.** The one 3-D Earth that passes 7 of 9 groups under both ice histories (all but GNSS Fennoscandia and ESL)
+and beats Gowan's Earth under both. Its lateral structure gains 422 in log L over its own radial profile under GLAC-1D's ice and turns both GNSS groups from
 failing (I 24 and 5) to nearly passing; under PaleoMIST's ice the gain is smaller (+49) but again mostly in the GNSS
 rates. On the RSL log L alone, the best 1-D Earths of wave A fit as well under GLAC-1D's ice (−8709) and better under
 PaleoMIST's (−8801); what sets E014 apart is that it fits the RSL and the present-day rates together.
@@ -180,6 +182,23 @@ stiff one helps Fennoscandia and Antarctica under PaleoMIST's ice. Against the u
 UM-TZ ridge: a stiffer upper mantle (10^20.5^-10^21^) over a transition zone in the experts' range fits as well. E014 also
 sits at the edges of the prior (TZ 22.47 of 22.5; LM1 and LM2 near 21), which may be the spread of the sample rather
 than the data.
+
+## ESL after the rescore
+
+Since 2026-11-18 ESL compares the stack with the runs' barystatic sea level `bsl`, the data linear in time ([Data and
+scores](data-scores.md#esl)); the runs read 10-11 m less LGM ice than before. Under imposed ice PaleoMIST's ice scores
+I 10.0-11.0 on every Earth and GLAC-1D's 7.3-8.4, all above the bar 7.22, PaleoMIST's own score, which is computed from
+its whole ice volume, below flotation included. The emulator on the rescored scores
+(`kryos-work/rescore-esl/earth-search/emulate*`):
+
+| | wave A: GLAC-1D | PaleoMIST | both | either | wave B: GLAC-1D | PaleoMIST | both | either |
+|---|---|---|---|---|---|---|---|---|
+| ESL judging (bar 7.22) | 0 % | 0 % | 0 % | 0 % | 0.7 % | 0 % | 0 % | 0.7 % |
+| ESL reported only | 13.5 % | 20.2 % | 4.9 % | 28.8 % | 45 % | 39 % | 33 % | 51 % |
+
+Without ESL the fractions are those of this page (wave B now on all 50 3-D runs per ice, so PaleoMIST 42 → 39 %, both
+36 → 33 %). The other numbers of this page are without ESL; a bar for ESL under imposed ice, on the same comparator as
+the runs, is open.
 
 ## Wave B2
 

diff --git a/docs/science/data-scores.md b/docs/science/data-scores.md
@@ -16,7 +16,7 @@ error model for every simulation, published reconstructions included.
 | Barents | GAPSLIP 2.1 (Svalbard, Franz Josef Land, Novaya Zemlya, the Kara Sea) | 370 | yes |
 | Antarctica | GAPSLIP 2.1 | 47 | yes |
 | far field | GAPSLIP 2.1 | 2248 | yes |
-| ESL | the eustatic sea level of the Spratt and Lisiecki (2016) stack, 25-10 ka, against the run's ice-volume sea level | 7 | yes |
+| ESL | the Spratt and Lisiecki (2016) sea-level stack, 25-10 ka every 2.5 kyr, against the run's barystatic sea level ([below](#esl)) | 7 | yes |
 | GNSS Fennoscandia | present-day uplift rates, BIFROST2015 (Kierulf et al. 2021) | 164 | yes |
 | GNSS Hudson Bay | Schumacher et al. (2018), elastic-corrected, and MIDAS stations (Blewitt et al. 2016) | 61 | yes |
 | GNSS Greenland | GNET (Berg et al. 2024) | 55 | reported only |
@@ -27,6 +27,24 @@ on the same points. GNSS rates are compared with the run's rate of bed change at
 data; VILMA2's centre-of-mass frame against ITRF/IGS, a few tenths of a mm/yr apart, not corrected). In Greenland and
 Antarctica present-day uplift is dominated by the elastic response, Little Ice Age loading and transient rheology, so
 those groups are reported, not judged.
+
+### ESL
+
+The data: `sl_short` of the stack (FesmData `SeaLevel-Spratt2016`, 1 sigma `sl_short_sd`) relative to its own present
+(+8.5 m at 0 ka), linear in time between its 1-kyr records at 25, 22.5, ..., 10 ka (22.5 ka is the mean of 22 and 23 ka).
+The model: VILMA2's barystatic sea level `bsl` of the run's global instance (`geo_glob_vilma.nc`; `vilma_out.nc` of a
+standalone run) relative to its last record (0 ka), linear between its records. `bsl` is the ocean mean of C·rsl,
+∫C rsl dA / ∫C dA over the ocean of the time (VILMA2 `update_bsl`); by the mass balance of the sea-level equation it is the
+melt water of the grounded-ice change plus the fill of newly flooded area. The ocean that fills the cavity of lost marine
+ice does not raise it, so in effect the ice above flotation counts, with the change of the ocean area: the
+ice-volume-equivalent sea level the stack stands for. The error model of the group has only a time term (σ_m 5 m, L_t 10
+kyr). `[esl] model_var` of the scoring config selects the model's series (`tools/levante/plastic_ensemble.jl`).
+
+Until 2026-11-18 the model's series was `bsl_ive`, −(ρ_i/ρ_w) of the whole grounded-column change over the ocean area, the
+ice below flotation included (about 10 m more ice at the LGM than `bsl`), and the data were taken at their nearest record
+(22, 17, 12 ka for 22.5, 17.5, 12.5 ka). `model_var = "bsl_ive"` gives that comparator back (with the data linear in
+time). With `bsl` every simulation reads 10-11 m less ice at 20 ka and its ESL I rises by about 4-5 (where the run is
+short of the stack); the interpolation alone moves I by up to ±0.8.
 
 ## The error model
 
@@ -57,9 +75,12 @@ two scores: Greenland 7.9 (PaleoMIST). Every other RSL group and the GNSS groups
 
 - **Our ice** (the ensembles): the plain cut 3. ESL is an independent constraint on the ice, which the publications were
   not built against.
-- **An Earth under imposed ice** (the Earth search): PaleoMIST's own score, 7.04. Under imposed ice ESL is a property of
-  the ice, not of the Earth (5.9-6.1 under PaleoMIST's ice on every Earth), so a plain cut would rule Earths out for the
-  ice's sake.
+- **An Earth under imposed ice** (the Earth search): PaleoMIST's own score, 7.22. Under imposed ice ESL is a property of
+  the ice, not of the Earth (10.0-11.0 under PaleoMIST's ice on every Earth, 7.3-8.4 under GLAC-1D's), so a plain cut
+  would rule Earths out for the ice's sake. PaleoMIST's own ESL (`SeaLevel-PaleoMIST`) is its whole ice volume, below
+  flotation included, while the runs are scored on `bsl`: since the rescore of 2026-11-18 both ice histories on our
+  solver score worse than the bar, so ESL rules out every Earth
+  ([The Earth search](earth-search.md#esl-after-the-rescore)). Open: a bar on the same comparator.
 
 A simulation is *as good as the publications* when it passes every group, and *better* when it does so with a higher
 log L. The Earth search uses the same bar to rule Earths out ([The Earth search](earth-search.md)).
